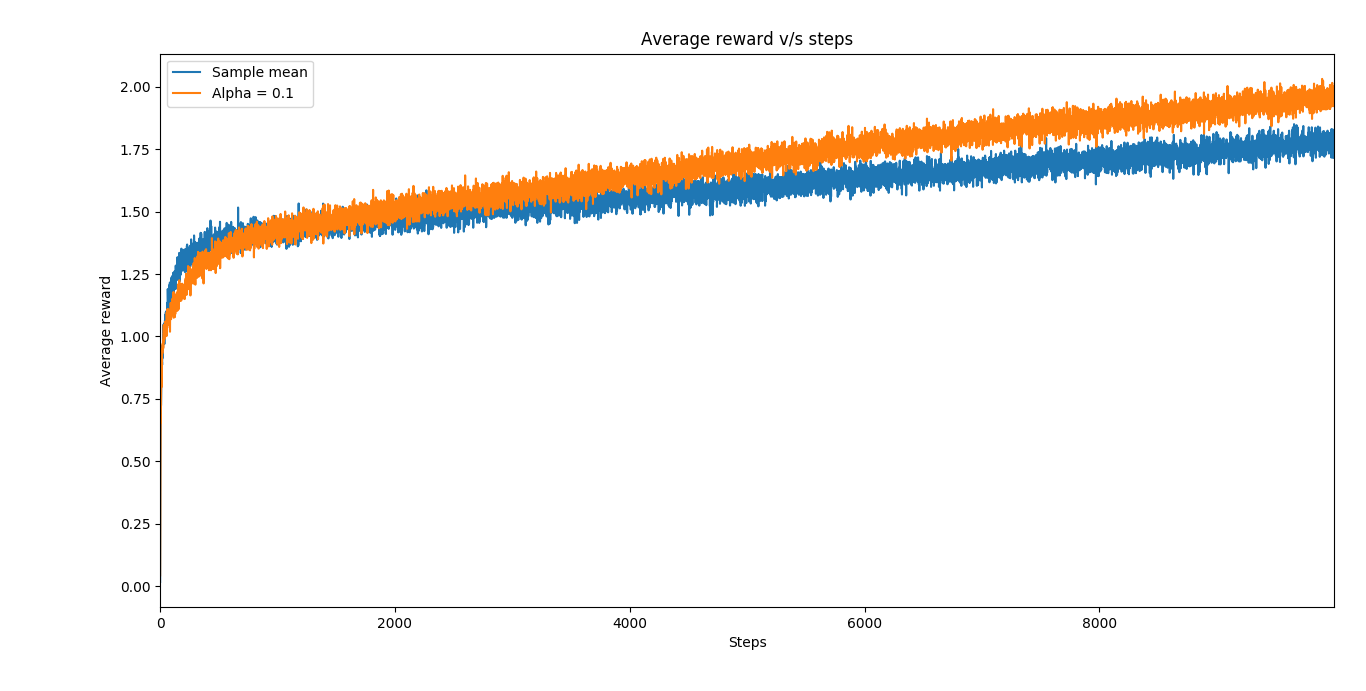
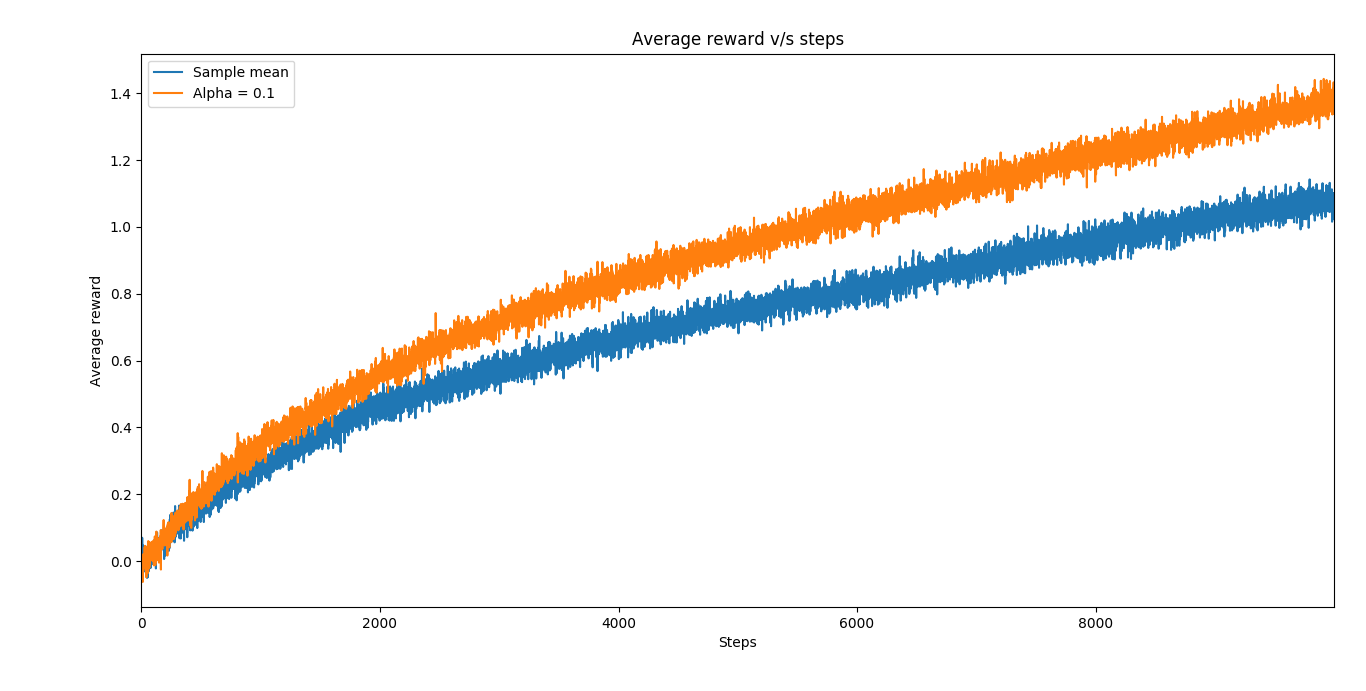
Fixed q5

diff --git a/HW1/q5.py b/HW1/q5.py
@@ -62,7 +62,7 @@ def update_estimates(q, choice_count, step_size, action, reward):
 
 
 VARIANCE_OF_EACH_ARM = 1
-VARIANCE = 1
+VARIANCE = 0
 MEAN = 0
 """
 Returns a set of arms which have their mean picked from a normal distribution(MEAN, VARIANCE) and variance = VARIANCE_OF_EACH_ARM
